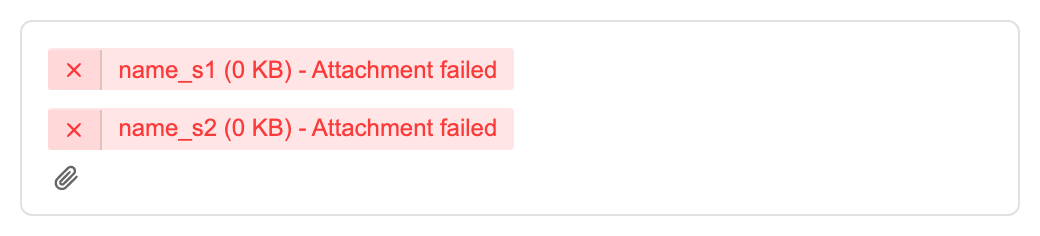
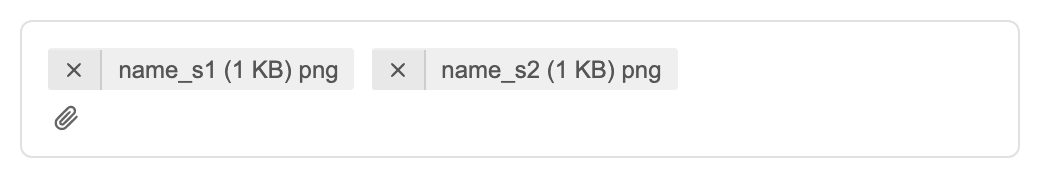
- updated attachment picker and image picker unit tests incl. screenshots - removed image picker temp hack spoof code

Changed region(s): [[0.0308, 0.1966, 0.6462, 0.8146], [0.0, 0.8427, 0.9846, 0.927], [0.0, 0.0843, 0.9846, 0.1404]]

diff --git a/test/temba-image-picker.test.ts b/test/temba-image-picker.test.ts
@@ -1,4 +1,4 @@
-import { assert, expect } from '@open-wc/testing';
+import { expect } from '@open-wc/testing';
 import { assertScreenshot, getClip, getComponent } from './utils.test';
 import { Attachment } from '../src/attachments/attachments';
 import { ImagePicker } from '../src/imagepicker/ImagePicker';
@@ -43,18 +43,114 @@ const getAttachmentsValues = (value: any): any[] => {
   return [value];
 };
 
+const getValidUrl = () => {
+  return '../../test-assets/img/meow.jpg';
+};
+
 describe('temba-image-picker', () => {
-  it('attachments with success uploaded files', async () => {
-    const imagePicker: ImagePicker = await getImagePicker();
-    await updateAttachments(imagePicker, null, getValidAttachments(1));
+  it('image with different upload icon', async () => {
+    const imagePicker: ImagePicker = await getImagePicker({
+      uploadIcon: 'attachment',
+    });
+    await updateAttachments(
+      imagePicker,
+      null,
+      getValidAttachments(1, getValidUrl())
+    );
     await assertScreenshot(
-      'image-picker/attachments-with-success-files',
+      'image-picker/image-different-upload-icon',
       getClip(imagePicker)
     );
   });
 
-  it('attachments with success uploaded files deserialize and serialize', async () => {
-    const initialValue = getInitialValue(null, getValidAttachments(1));
+  it('image with different upload label', async () => {
+    const imagePicker: ImagePicker = await getImagePicker({
+      uploadLabel: 'Upload Image',
+    });
+    await assertScreenshot(
+      'image-picker/image-different-upload-label',
+      getClip(imagePicker)
+    );
+  });
+
+  it('image with different remove icon', async () => {
+    const imagePicker: ImagePicker = await getImagePicker({
+      removeIcon: 'delete_small',
+    });
+    await updateAttachments(
+      imagePicker,
+      null,
+      getValidAttachments(1, getValidUrl())
+    );
+    await assertScreenshot(
+      'image-picker/image-different-remove-icon',
+      getClip(imagePicker)
+    );
+  });
+
+  it('image with different image width', async () => {
+    const imagePicker: ImagePicker = await getImagePicker({
+      imageWidth: '200',
+    });
+    await updateAttachments(
+      imagePicker,
+      null,
+      getValidAttachments(1, getValidUrl())
+    );
+    await assertScreenshot(
+      'image-picker/image-different-image-width',
+      getClip(imagePicker)
+    );
+  });
+
+  it('image with different image height', async () => {
+    const imagePicker: ImagePicker = await getImagePicker({
+      imageHeight: '200',
+    });
+    await updateAttachments(
+      imagePicker,
+      null,
+      getValidAttachments(1, getValidUrl())
+    );
+    await assertScreenshot(
+      'image-picker/image-different-image-height',
+      getClip(imagePicker)
+    );
+  });
+
+  it('image with different border radius', async () => {
+    const imagePicker: ImagePicker = await getImagePicker({
+      imageRadius: '50%',
+    });
+    await updateAttachments(
+      imagePicker,
+      null,
+      getValidAttachments(1, getValidUrl())
+    );
+    await assertScreenshot(
+      'image-picker/image-different-border-radius',
+      getClip(imagePicker)
+    );
+  });
+
+  it('image with success uploaded file', async () => {
+    const imagePicker: ImagePicker = await getImagePicker();
+    await updateAttachments(
+      imagePicker,
+      null,
+      getValidAttachments(1, getValidUrl())
+    );
+    await assertScreenshot(
+      'image-picker/image-with-success-file',
+      getClip(imagePicker)
+    );
+  });
+
+  it('image with success uploaded files deserialize and serialize', async () => {
+    const initialValue = getInitialValue(
+      null,
+      getValidAttachments(1, getValidUrl())
+    );
     const attachmentsValue = getAttachmentsValue(initialValue);
     const attachmentsValues = getAttachmentsValues(initialValue);
 
@@ -63,31 +159,18 @@ describe('temba-image-picker', () => {
     });
     // deserialize
     expect(imagePicker.currentAttachments).to.deep.equal(
-      getValidAttachments(1)
+      getValidAttachments(1, getValidUrl())
     );
     // serialize
     expect(imagePicker.value).to.equal(attachmentsValue);
     expect(imagePicker.values).to.deep.equal(attachmentsValues);
   });
 
-  it('attachments with failure uploaded files', async () => {
+  it('image with failure uploaded file', async () => {
     const imagePicker: ImagePicker = await getImagePicker();
     await updateAttachments(imagePicker, null, getInvalidAttachments(1));
     await assertScreenshot(
-      'image-picker/attachments-with-failure-files',
-      getClip(imagePicker)
-    );
-  });
-
-  it('attachments with success and failure uploaded files', async () => {
-    const imagePicker: ImagePicker = await getImagePicker();
-    await updateAttachments(
-      imagePicker,
-      getValidAttachments(1),
-      getInvalidAttachments(1)
-    );
-    await assertScreenshot(
-      'image-picker/attachments-with-all-files',
+      'image-picker/image-with-failure-file',
       getClip(imagePicker)
     );
   });

diff --git a/test/temba-attachments-picker.test.ts b/test/temba-attachments-picker.test.ts
@@ -1,4 +1,4 @@
-import { assert, expect } from '@open-wc/testing';
+import { expect } from '@open-wc/testing';
 import { assertScreenshot, getClip, getComponent } from './utils.test';
 import { AttachmentsPicker } from '../src/attachments/AttachmentsPicker';
 import { Attachment } from '../src/attachments/attachments';
@@ -48,7 +48,7 @@ const getAttachmentsValues = (value: any): any[] => {
 };
 
 // valid = attachments that are uploaded and are sent to the server
-export const getValidAttachments = (numFiles = 2): Attachment[] => {
+export const getValidAttachments = (numFiles = 2, url = ''): Attachment[] => {
   const attachments = [];
   let index = 1;
   while (index <= numFiles) {
@@ -58,7 +58,7 @@ export const getValidAttachments = (numFiles = 2): Attachment[] => {
       content_type: 'image/png',
       type: 'image/png',
       filename: 'name_' + s,
-      url: 'url_' + s,
+      url: url ? url : 'url_' + s,
       size: 1024,
       error: null,
     } as Attachment;
@@ -102,9 +102,40 @@ export const getInvalidAttachments = (numFiles = 2): Attachment[] => {
 };
 
 describe('temba-attachments-picker', () => {
+  it('attachments with different upload icon', async () => {
+    const attachmentsPicker: AttachmentsPicker = await getAttachmentsPicker({
+      uploadIcon: 'attachment_image',
+    });
+    await assertScreenshot(
+      'attachments-picker/attachments-different-upload-icon',
+      getClip(attachmentsPicker)
+    );
+  });
+
+  it('attachments with different upload label', async () => {
+    const attachmentsPicker: AttachmentsPicker = await getAttachmentsPicker({
+      uploadLabel: 'Upload Attachments',
+    });
+    await assertScreenshot(
+      'attachments-picker/attachments-different-upload-label',
+      getClip(attachmentsPicker)
+    );
+  });
+
+  it('attachments with different remove icon', async () => {
+    const attachmentsPicker: AttachmentsPicker = await getAttachmentsPicker({
+      removeIcon: 'delete',
+    });
+    await updateAttachments(attachmentsPicker, getValidAttachments());
+    await assertScreenshot(
+      'attachments-picker/attachments-different-remove-icon',
+      getClip(attachmentsPicker)
+    );
+  });
+
   it('attachments with success uploaded files', async () => {
     const attachmentsPicker: AttachmentsPicker = await getAttachmentsPicker();
-    await updateAttachments(attachmentsPicker, null, getValidAttachments());
+    await updateAttachments(attachmentsPicker, getValidAttachments());
     await assertScreenshot(
       'attachments-picker/attachments-with-success-files',
       getClip(attachmentsPicker)

diff --git a/src/imagepicker/ImagePicker.ts b/src/imagepicker/ImagePicker.ts
@@ -177,11 +177,6 @@ export class ImagePicker extends FormElement {
     } else if (this.failedAttachments.length > 0) {
       this.currentAttachment = this.failedAttachments[0];
       this.errors = [this.currentAttachment.error];
-
-      // temp hack - spoof a successful file upload
-      // this.currentAttachment.url = '../../test-assets/img/20mb.jpg'
-      // this.currentAttachment.error = '';
-      // this.errors = [];
     }
   }
 
